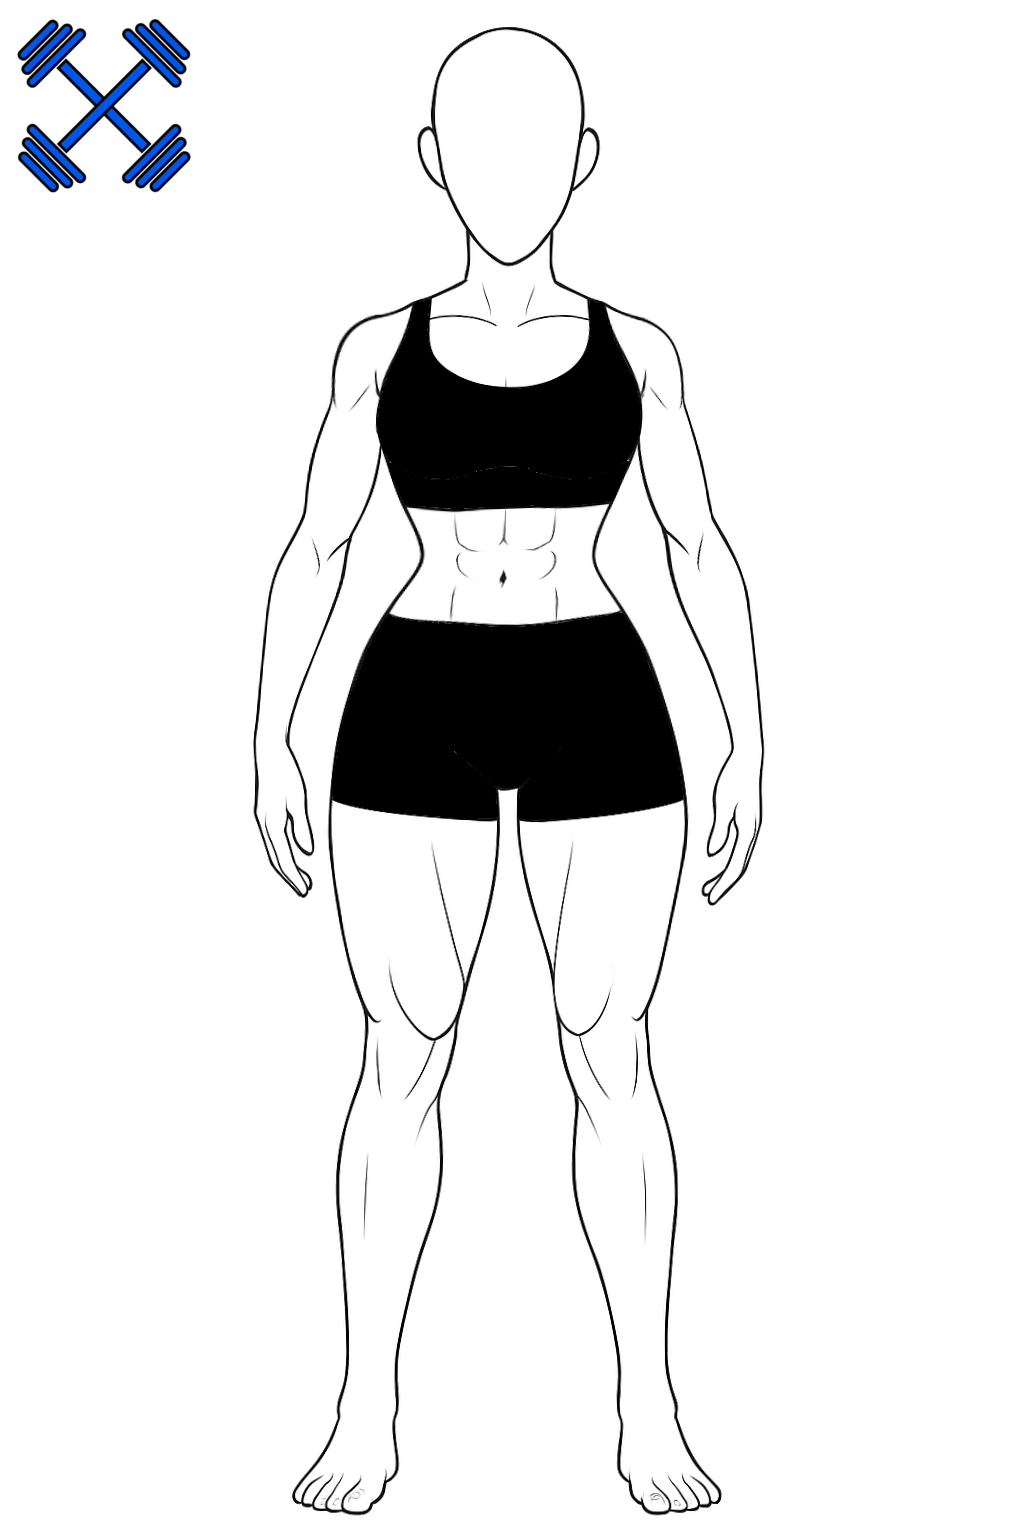
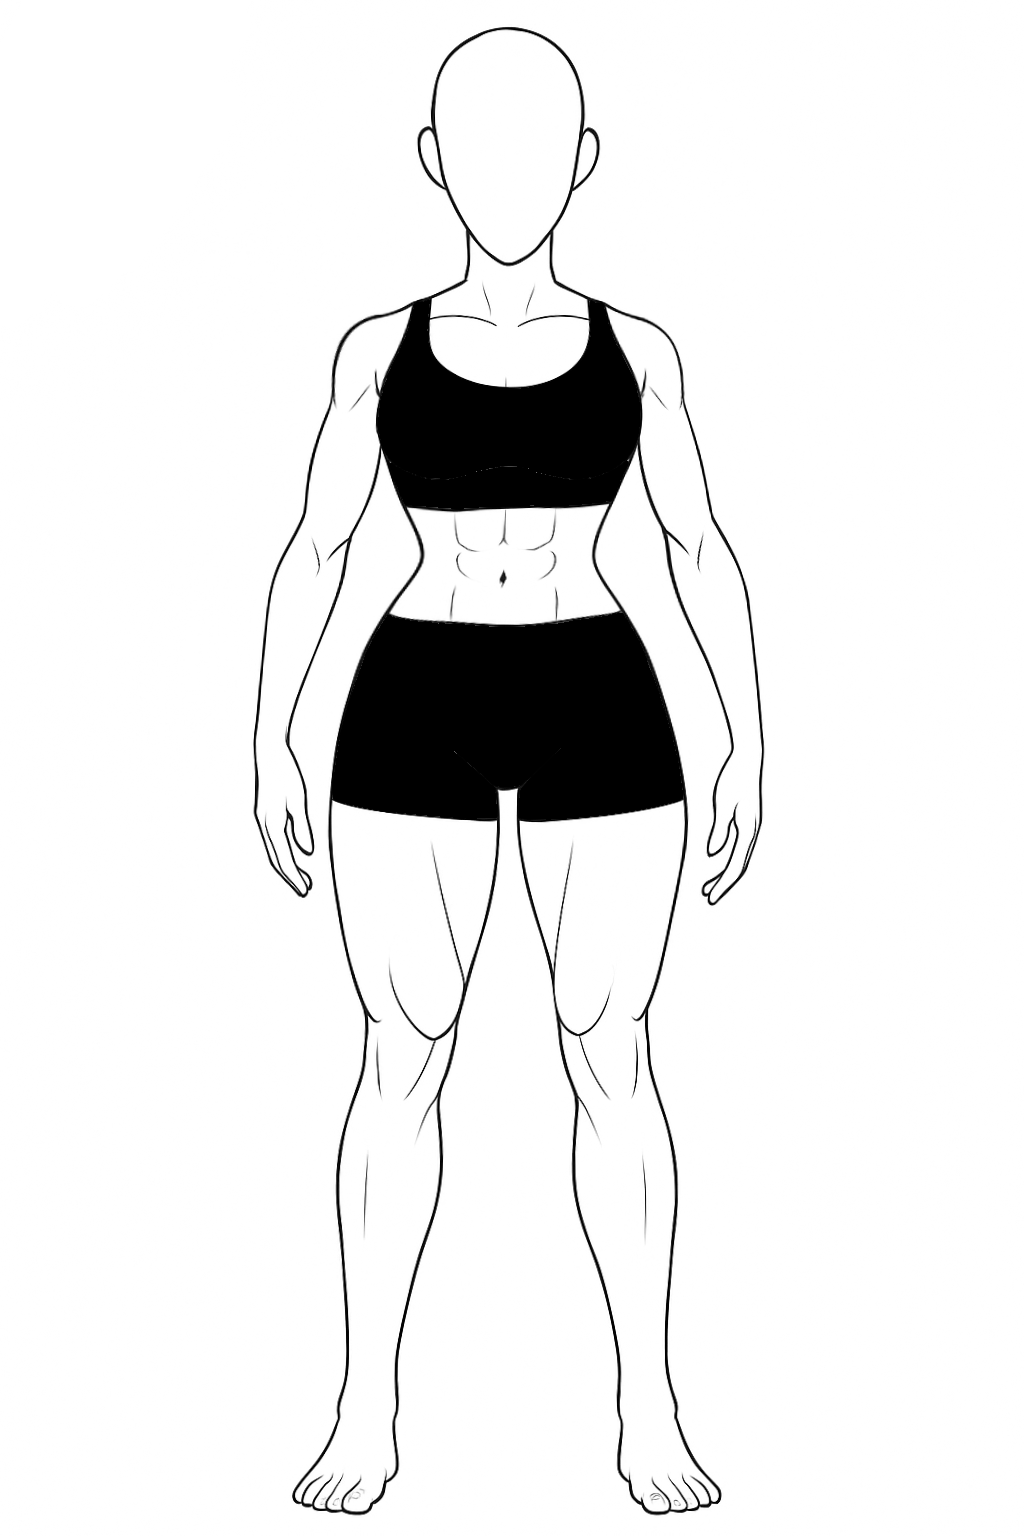
Download dos ícones usados no formulário do cliente.

Changed region(s): [[0.0, 0.0, 0.1875, 0.125]]

diff --git a/client/eslint.config.js b/client/eslint.config.js
@@ -23,7 +23,7 @@ export default defineConfig([
       },
     },
     rules: {
-      'no-unused-vars': ['error', { varsIgnorePattern: '^[A-Z_]' }],
+      'no-unused-vars': ['error', { args: 'all', varsIgnorePattern: '^[A-Z_]' }]
     },
   },
 ])

diff --git a/README.md b/README.md
@@ -79,3 +79,9 @@ Este repositório contém o código e documentos relacionados ao projeto FitX, u
 <a href="https://www.flaticon.com/br/icones-gratis/lua" title="lua ícones">Lua ícones criados por Vectors Market - Flaticon</a>
 <a href="https://www.flaticon.com/br/icones-gratis/perto" title="perto ícones">Perto ícones criados por Bankume - Flaticon</a>
 <a href="https://www.flaticon.com/br/icones-gratis/compartilhar" title="compartilhar ícones">Compartilhar ícones criados por Freepik - Flaticon</a>
+<a href="https://www.flaticon.com/br/icones-gratis/grupo-de-idade" title="grupo de idade ícones">Grupo de idade ícones criados por Freepik - Flaticon</a>
+<a href="https://www.flaticon.com/br/icones-gratis/altura" title="altura ícones">Altura ícones criados por Mayor Icons - Flaticon</a>
+<a href="https://www.flaticon.com/br/icones-gratis/balanca" title="balança ícones">Balança ícones criados por Soremba - Flaticon</a>
+<a href="https://www.flaticon.com/br/icones-gratis/semanal" title="semanal ícones">Semanal ícones criados por Arafat Uddin - Flaticon</a>
+<a href="https://www.flaticon.com/br/icones-gratis/genero" title="gênero ícones">Gênero ícones criados por edt.im - Flaticon</a>
+<a href="https://www.flaticon.com/br/icones-gratis/fraqueza" title="fraqueza ícones">Fraqueza ícones criados por Freepik - Flaticon</a>
